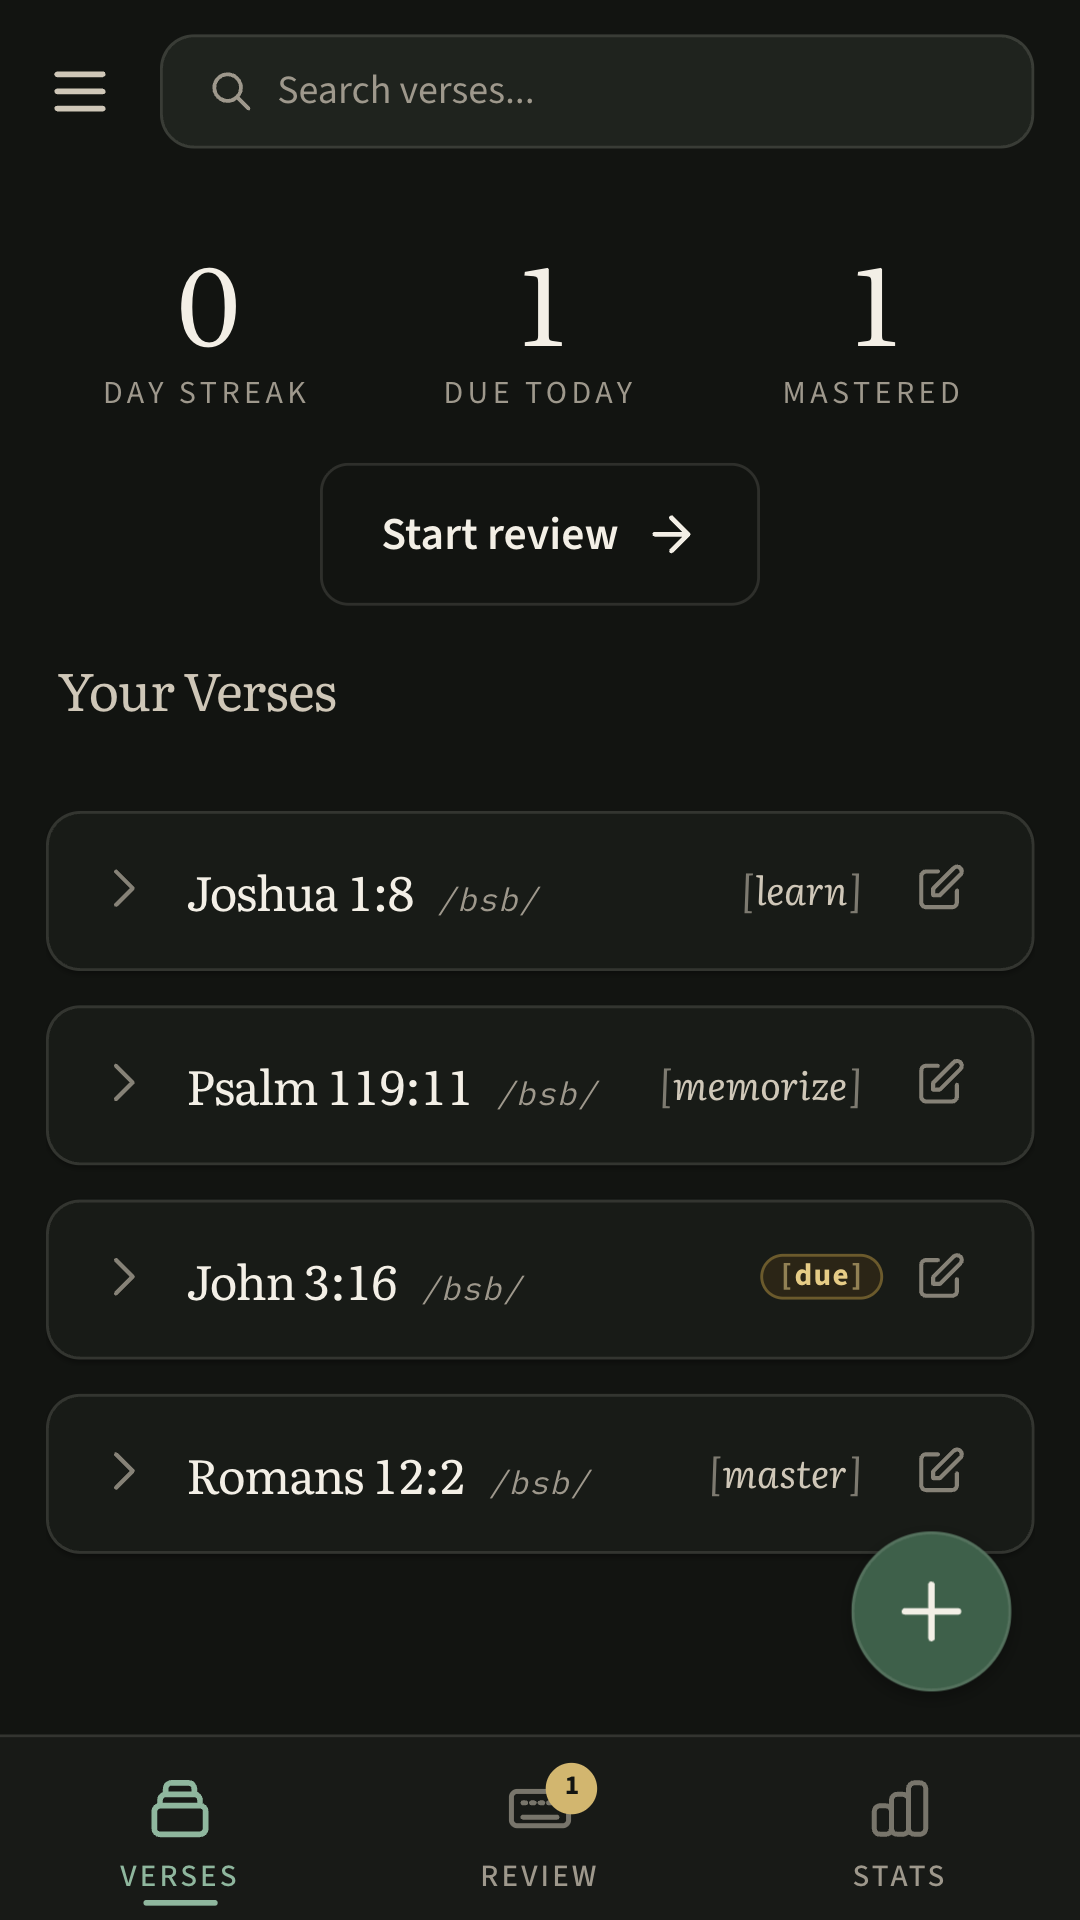
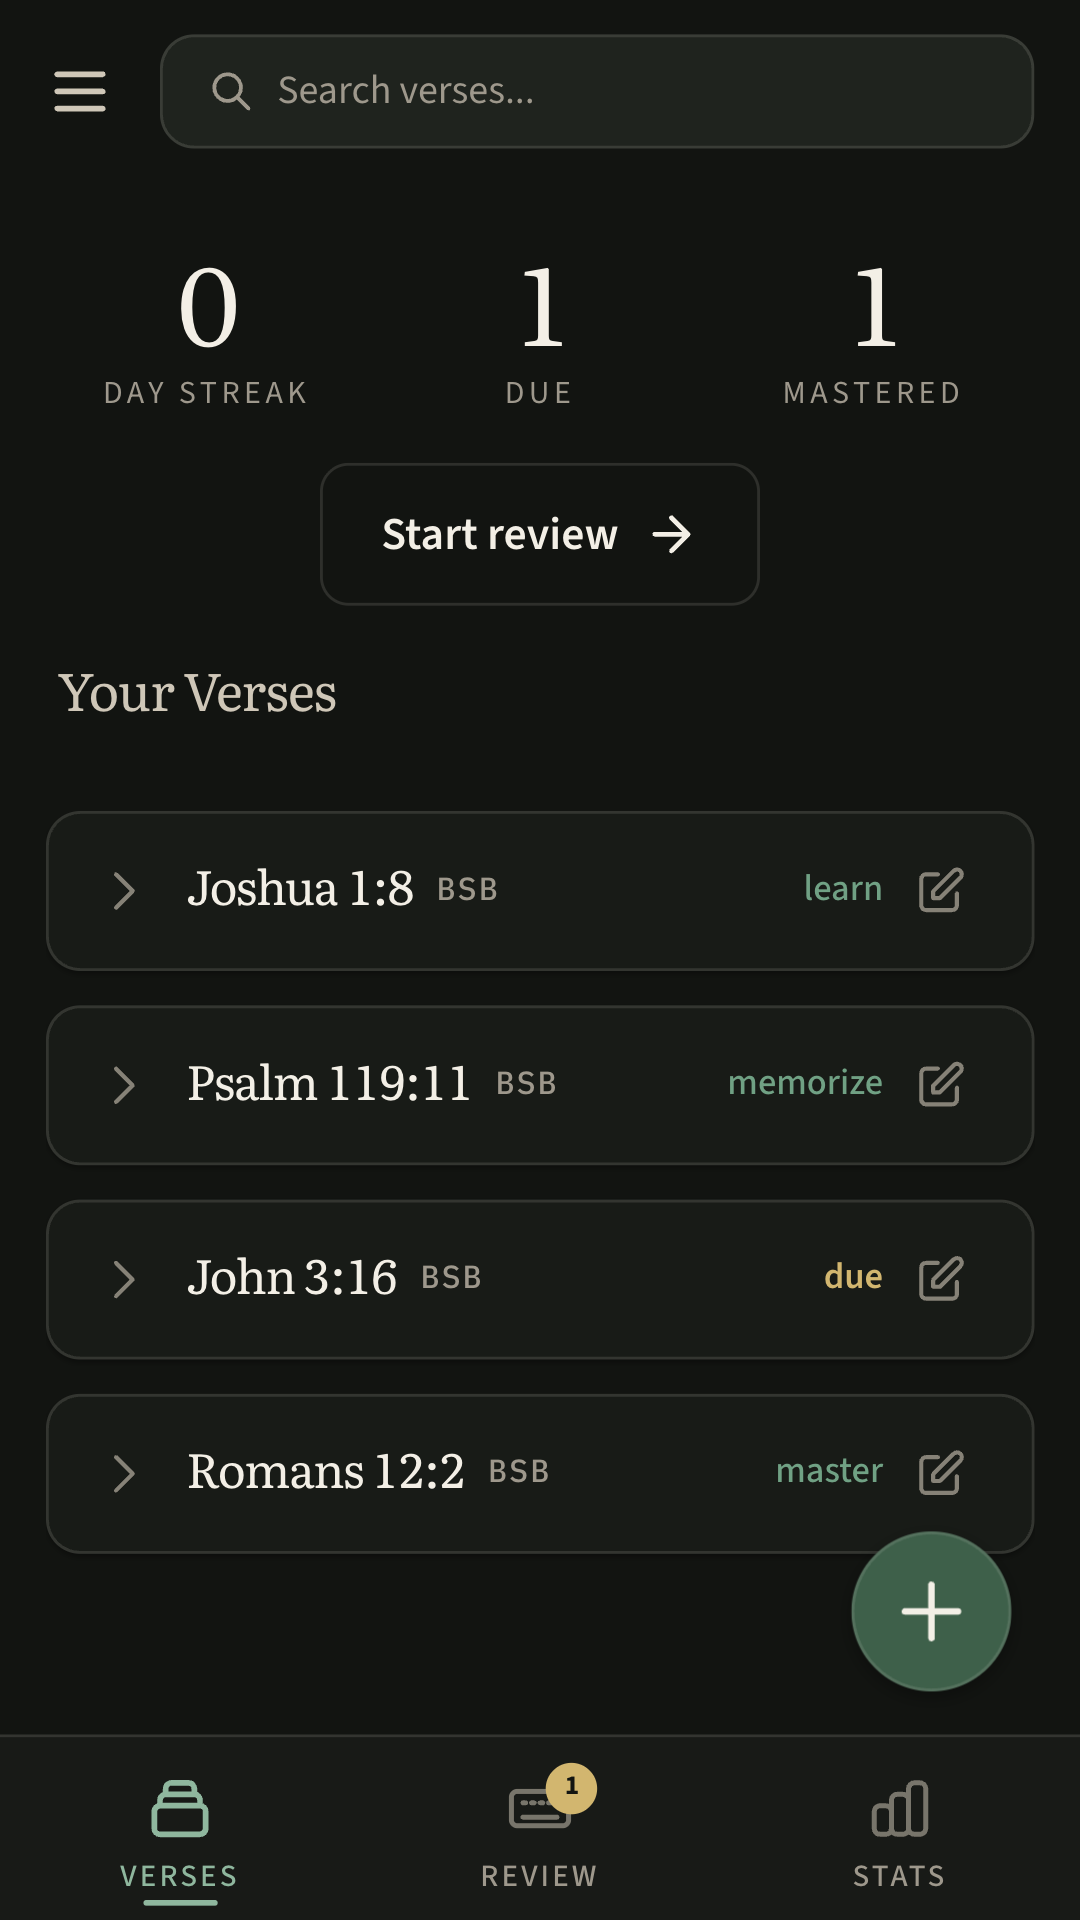
fix: refine verse status colors

diff --git a/src/style.css b/src/style.css
@@ -62,7 +62,7 @@
     /* Status tokens (tuned for cream surfaces) */
     --color-status-due-bg: #F3E5C2;
     --color-status-due-border: #DCC47F;
-    --color-status-due-text: #9A3F1C;
+    --color-status-due-text: var(--color-accent-warm-text);
     --color-status-progress-text: #17633F;
     --color-status-success-bg: #E4EFE6;
     --color-status-success-border: #B7CDBB;
@@ -131,8 +131,8 @@
 
     --color-status-due-bg: #2B2516;
     --color-status-due-border: #6B5A2C;
-    --color-status-due-text: #F2AA63;
-    --color-status-progress-text: #8BD7AD;
+    --color-status-due-text: var(--color-accent-warm);
+    --color-status-progress-text: #70A184;
     --color-status-success-bg: #142019;
     --color-status-success-border: #355D47;
     --color-status-success-text: #B7D4C1;
